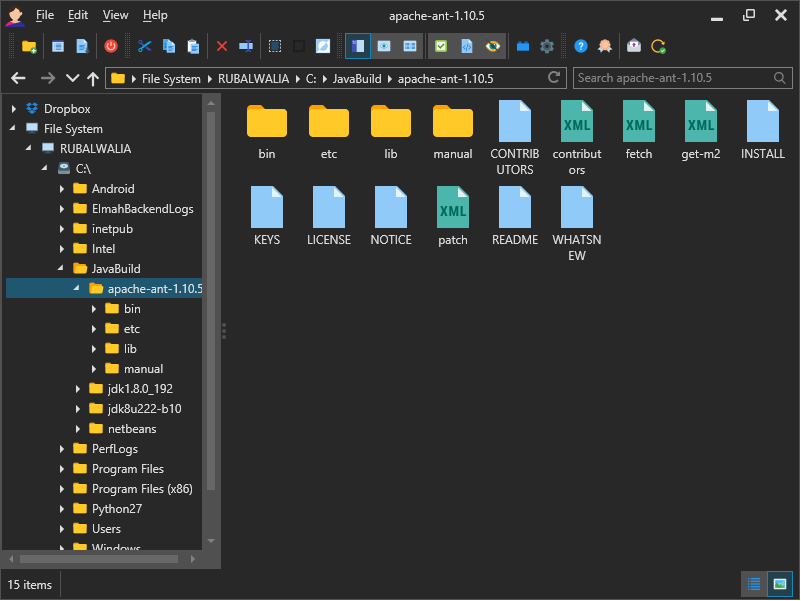
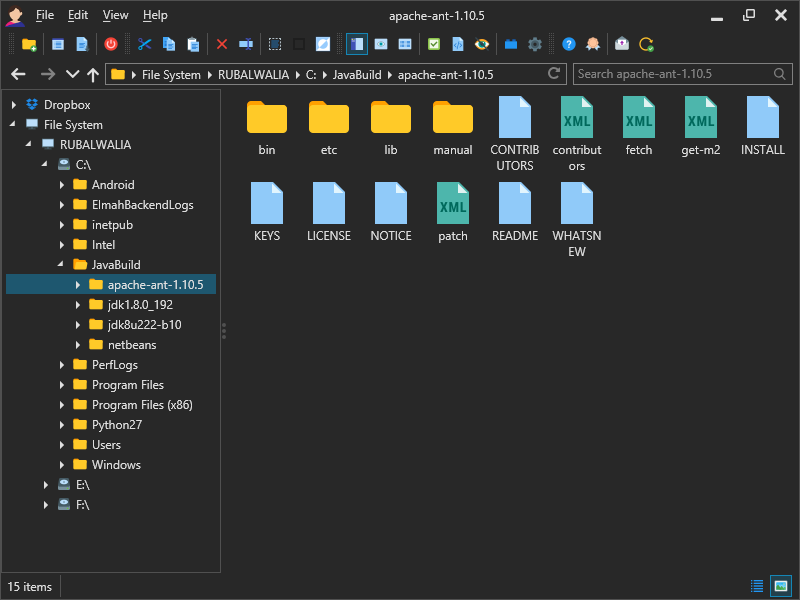
Fixed toolbar and status bar toggle button transparency.

diff --git a/Jaya.Ui/Views/ToolbarView.xaml b/Jaya.Ui/Views/ToolbarView.xaml
@@ -44,7 +44,7 @@
                 <Setter Property="Width" Value="6" />
             </Style>
 
-            <Style Selector="Button, ToggleButton">
+            <Style Selector="Button">
                 <Setter Property="Margin" Value="1 0" />
                 <Setter Property="Padding" Value="2" />
                 <Setter Property="MinWidth" Value="21" />
@@ -53,14 +53,34 @@
                 <Setter Property="BorderThickness" Value="1" />
                 <Setter Property="BorderBrush" Value="Transparent" />
             </Style>
-            <Style Selector="Button:pointerover /template/ ContentPresenter, ToggleButton:pointerover /template/ ContentPresenter">
+            <Style Selector="Button:pointerover /template/ ContentPresenter">
                 <Setter Property="Background" Value="{DynamicResource ThemeAccentBrush4}" />
                 <Setter Property="BorderBrush" Value="{DynamicResource ThemeAccentBrush}" />
             </Style>
-            <Style Selector="Button:pressed /template/ ContentPresenter, ToggleButton:pressed /template/ ContentPresenter">
+            <Style Selector="Button:pressed /template/ ContentPresenter">
                 <Setter Property="Background" Value="{DynamicResource ThemeAccentBrush}" />
             </Style>
-            <Style Selector="Button:disabled, ToggleButton:disabled">
+            <Style Selector="Button:disabled">
+                <Setter Property="Opacity" Value="{DynamicResource ThemeDisabledOpacity}" />
+            </Style>
+
+            <Style Selector="ToggleButton">
+                <Setter Property="Margin" Value="1 0" />
+                <Setter Property="Padding" Value="2" />
+                <Setter Property="MinWidth" Value="21" />
+                <Setter Property="MinHeight" Value="21" />
+                <Setter Property="Background" Value="Transparent" />
+                <Setter Property="BorderThickness" Value="1" />
+                <Setter Property="BorderBrush" Value="Transparent" />
+            </Style>
+            <Style Selector="ToggleButton:pointerover /template/ ContentPresenter">
+                <Setter Property="Background" Value="{DynamicResource ThemeAccentBrush4}" />
+                <Setter Property="BorderBrush" Value="{DynamicResource ThemeAccentBrush}" />
+            </Style>
+            <Style Selector="ToggleButton:pressed /template/ ContentPresenter">
+                <Setter Property="Background" Value="{DynamicResource ThemeAccentBrush}" />
+            </Style>
+            <Style Selector="ToggleButton:disabled">
                 <Setter Property="Opacity" Value="{DynamicResource ThemeDisabledOpacity}" />
             </Style>
             <Style Selector="ToggleButton:checked /template/ ContentPresenter">
@@ -68,7 +88,7 @@
                 <Setter Property="BorderBrush" Value="{DynamicResource ThemeAccentBrush}" />
             </Style>
 
-            <Style Selector="Button &gt; Image">
+            <Style Selector="Button &gt; Image, ToggleButton &gt; Image">
                 <Setter Property="Width" Value="16" />
                 <Setter Property="Height" Value="16" />
             </Style>

diff --git a/Jaya.Ui/Views/StatusbarView.xaml b/Jaya.Ui/Views/StatusbarView.xaml
@@ -22,7 +22,7 @@
             <Setter Property="VerticalAlignment" Value="Center" />
         </Style>
 
-        <Style Selector="Button, ToggleButton">
+        <Style Selector="ToggleButton">
             <Setter Property="Margin" Value="1 0" />
             <Setter Property="Padding" Value="2" />
             <Setter Property="MinWidth" Value="21" />
@@ -31,14 +31,14 @@
             <Setter Property="BorderThickness" Value="1" />
             <Setter Property="BorderBrush" Value="Transparent" />
         </Style>
-        <Style Selector="Button:pointerover /template/ ContentPresenter, ToggleButton:pointerover /template/ ContentPresenter">
+        <Style Selector="ToggleButton:pointerover /template/ ContentPresenter">
             <Setter Property="Background" Value="{DynamicResource ThemeAccentBrush4}" />
             <Setter Property="BorderBrush" Value="{DynamicResource ThemeAccentBrush}" />
         </Style>
-        <Style Selector="Button:pressed /template/ ContentPresenter, ToggleButton:pressed /template/ ContentPresenter">
+        <Style Selector="ToggleButton:pressed /template/ ContentPresenter">
             <Setter Property="Background" Value="{DynamicResource ThemeAccentBrush}" />
         </Style>
-        <Style Selector="Button:disabled, ToggleButton:disabled">
+        <Style Selector="ToggleButton:disabled">
             <Setter Property="Opacity" Value="{DynamicResource ThemeDisabledOpacity}" />
         </Style>
         <Style Selector="ToggleButton:checked /template/ ContentPresenter">
@@ -46,7 +46,7 @@
             <Setter Property="BorderBrush" Value="{DynamicResource ThemeAccentBrush}" />
         </Style>
 
-        <Style Selector="Button &gt; Image, ToggleButton &gt; Image">
+        <Style Selector="ToggleButton &gt; Image">
             <Setter Property="Width" Value="16" />
             <Setter Property="Height" Value="16" />
         </Style>
